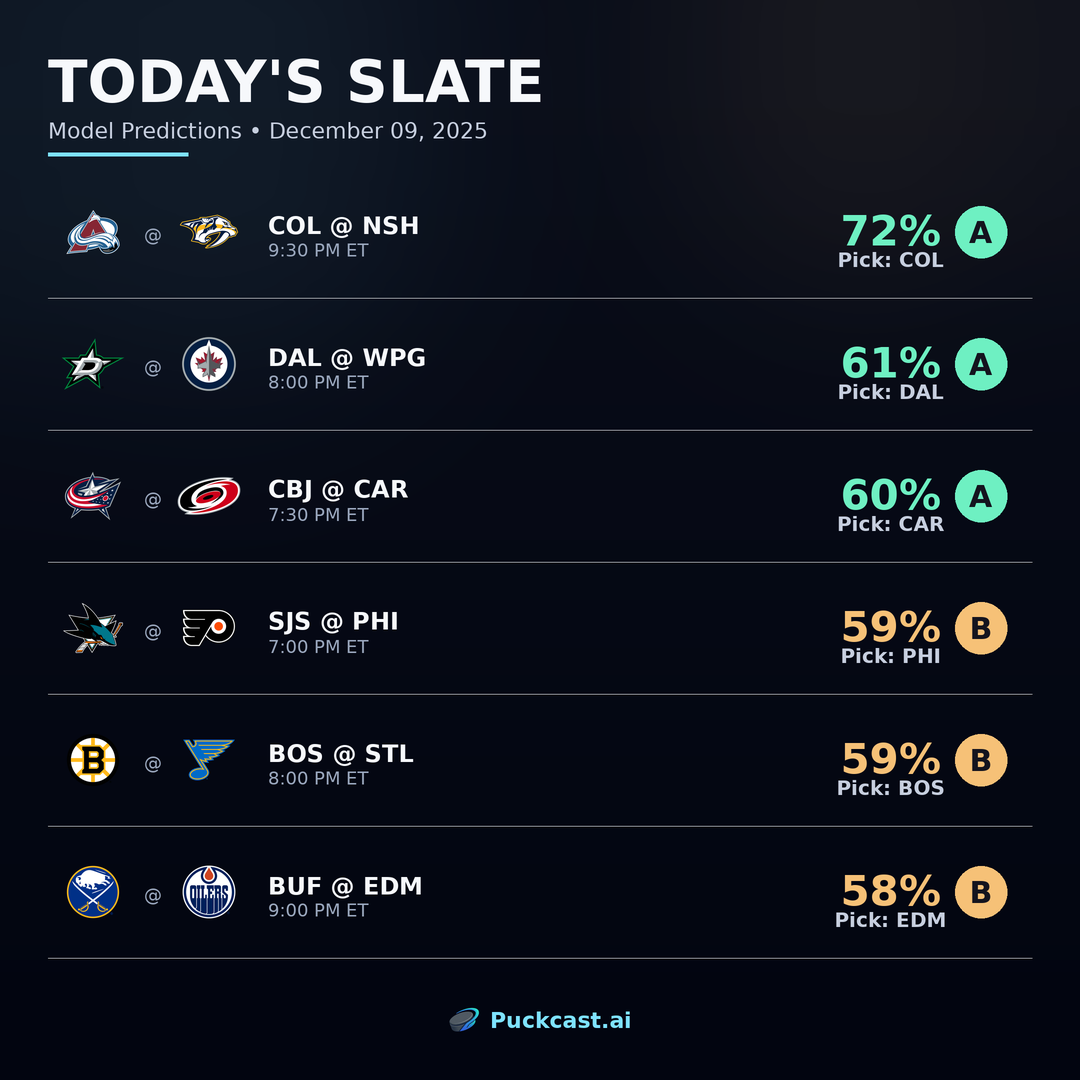
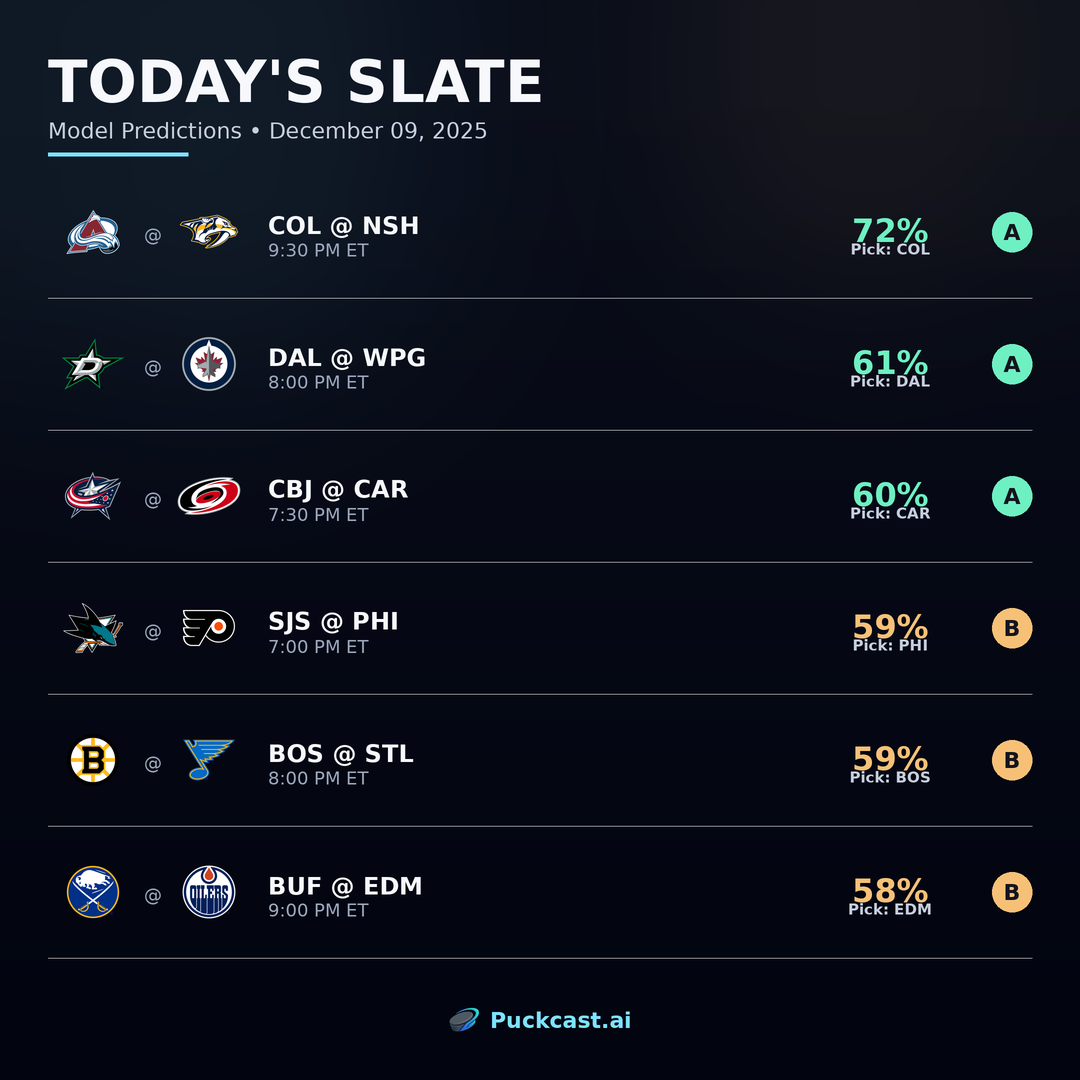
fix: refine Today's Slate pick info sizing and alignment
- Probability: S(42) -> S(32) - more refined
- Pick label: S(20) -> S(15) - proportional
- Grade badge: S(52) -> S(40) - smaller
- Grade letter: S(30) -> S(22) - proportional
- Pick section now vertically centered with row

diff --git a/graphics/templates/todays_slate.py b/graphics/templates/todays_slate.py
@@ -111,46 +111,52 @@ def draw_game_row(
     draw.text((info_x, text_y), matchup_text, fill=hex_to_rgb(PuckcastColors.TEXT_PRIMARY), font=matchup_font)
     draw.text((info_x, text_y + matchup_h + S(6)), start_time, fill=hex_to_rgb(PuckcastColors.TEXT_TERTIARY), font=time_font)
 
-    # Right side: Grade badge + probability - pulled closer (50px inward)
+    # Right side: Pick info - centered vertically with team info
     grade_color = get_confidence_color_rgb(confidence)
 
-    # Grade badge
-    badge_size = S(52)
-    badge_x = img.width - margin - S(25) - badge_size  # Pulled inward 50px
-    badge_y = row_center_y - badge_size // 2
+    # Calculate vertical center for pick section (aligned with matchup text)
+    pick_section_x = img.width - margin - S(180)
 
+    # Probability text - refined size
+    prob_font = get_font(S(32), bold=True)
+    prob_text = f"{pick_prob * 100:.0f}%"
+    prob_bbox = draw.textbbox((0, 0), prob_text, font=prob_font)
+    prob_w = prob_bbox[2] - prob_bbox[0]
+    prob_h = prob_bbox[3] - prob_bbox[1]
+
+    # Pick label
+    pick_font = get_font(S(15), bold=True)
+    pick_label = f"Pick: {pick_abbrev}"
+    pick_bbox = draw.textbbox((0, 0), pick_label, font=pick_font)
+    pick_w = pick_bbox[2] - pick_bbox[0]
+    pick_h = pick_bbox[3] - pick_bbox[1]
+
+    # Grade badge - smaller
+    badge_size = S(40)
+
+    # Total height of pick section
+    total_pick_h = prob_h + S(4) + pick_h
+    pick_start_y = row_center_y - total_pick_h // 2
+
+    # Draw probability
+    draw.text((pick_section_x, pick_start_y), prob_text, fill=grade_color, font=prob_font)
+
+    # Draw pick label below
+    draw.text((pick_section_x + (prob_w - pick_w) // 2, pick_start_y + prob_h + S(4)), pick_label, fill=hex_to_rgb(PuckcastColors.TEXT_SECONDARY), font=pick_font)
+
+    # Grade badge on far right
+    badge_x = img.width - margin - badge_size
+    badge_y = row_center_y - badge_size // 2
     draw.ellipse([badge_x, badge_y, badge_x + badge_size, badge_y + badge_size], fill=grade_color)
 
     # Grade letter
-    grade_font = get_font(S(30), bold=True)
+    grade_font = get_font(S(22), bold=True)
     grade_bbox = draw.textbbox((0, 0), confidence, font=grade_font)
     grade_w = grade_bbox[2] - grade_bbox[0]
     grade_h = grade_bbox[3] - grade_bbox[1]
     grade_x = badge_x + (badge_size - grade_w) // 2 - grade_bbox[0]
     grade_y = badge_y + (badge_size - grade_h) // 2 - grade_bbox[1]
-    draw.text(
-        (grade_x, grade_y),
-        confidence,
-        fill=(20, 20, 30),
-        font=grade_font,
-    )
-
-    # Win probability - larger and more prominent
-    prob_font = get_font(S(42), bold=True)
-    prob_text = f"{pick_prob * 100:.0f}%"
-    prob_bbox = draw.textbbox((0, 0), prob_text, font=prob_font)
-    prob_w = prob_bbox[2] - prob_bbox[0]
-    prob_h = prob_bbox[3] - prob_bbox[1]
-    prob_x = badge_x - prob_w - S(14)
-
-    draw.text((prob_x, row_center_y - prob_h // 2 - S(10)), prob_text, fill=grade_color, font=prob_font)
-
-    # Pick label - proportional to probability
-    pick_font = get_font(S(20), bold=True)
-    pick_label = f"Pick: {pick_abbrev}"
-    pick_bbox = draw.textbbox((0, 0), pick_label, font=pick_font)
-    pick_w = pick_bbox[2] - pick_bbox[0]
-    draw.text((prob_x + (prob_w - pick_w) // 2, row_center_y + S(16)), pick_label, fill=hex_to_rgb(PuckcastColors.TEXT_SECONDARY), font=pick_font)
+    draw.text((grade_x, grade_y), confidence, fill=(20, 20, 30), font=grade_font)
 
     # Separator line below row
     sep_y = y_position + row_height + S(4)
